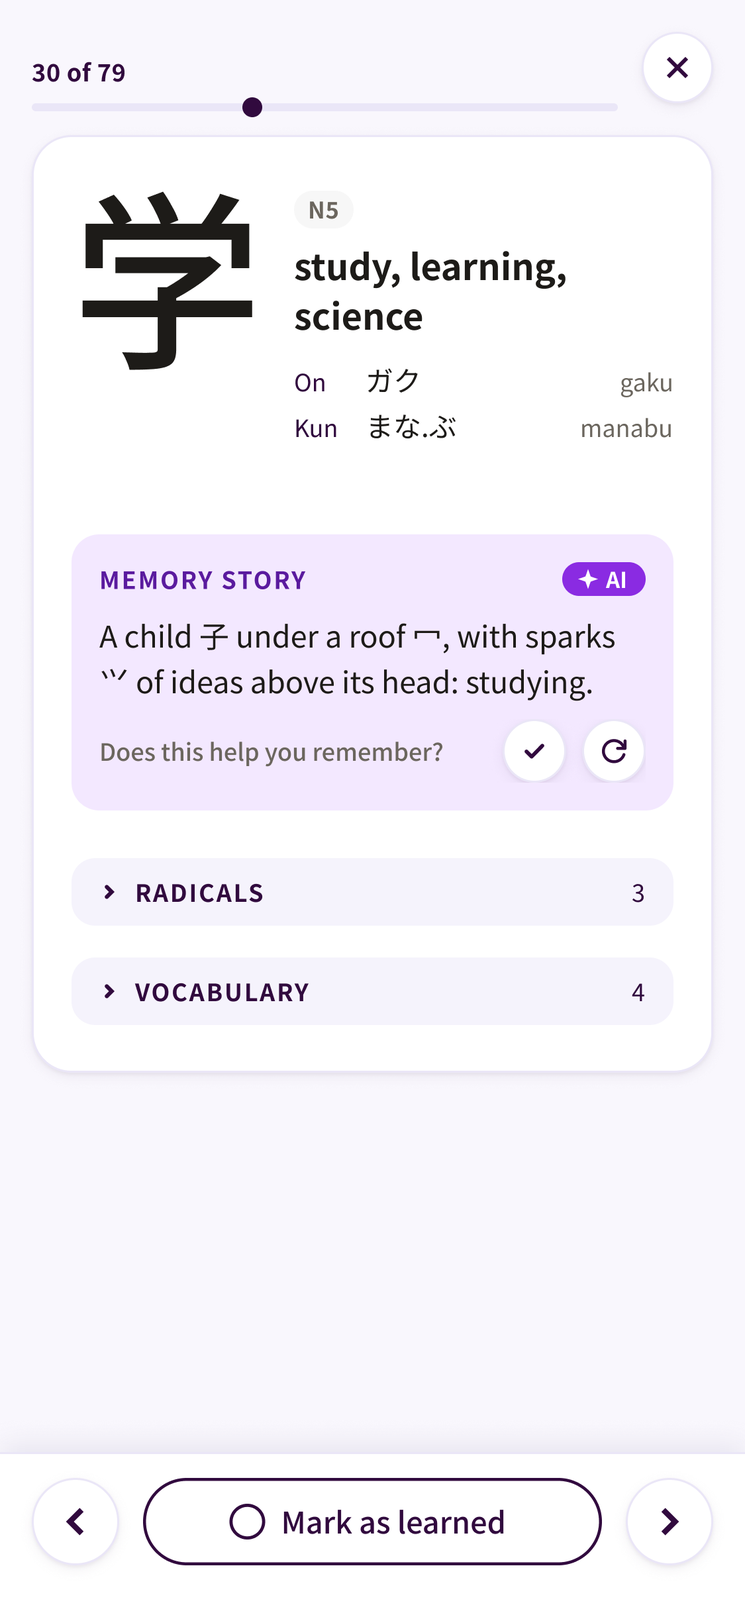
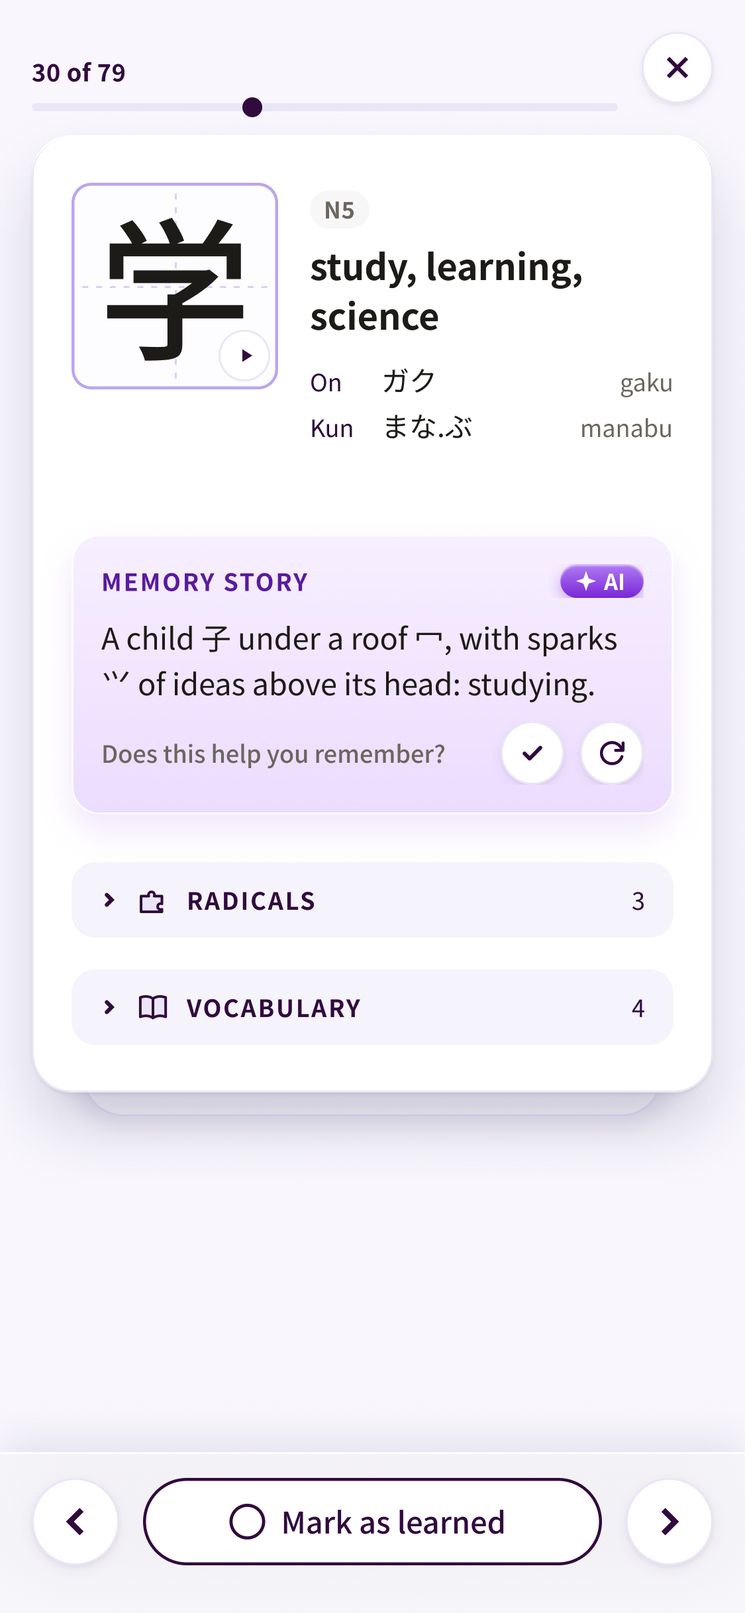
Premium updates animations

diff --git a/card-animation/index.html b/card-animation/index.html
@@ -4,12 +4,12 @@
 <meta charset="utf-8">
 <meta name="viewport" content="width=device-width, initial-scale=1">
 <title>Kanji card animation</title>
-<!-- A 15-second loop of the kanji card, in the app's own design tokens:
-     memory story → vocabulary → word sheet → phrase sheet (grammar tints) → Learned pill in the bottom bar. -->
+<!-- A 19-second loop of the kanji card, in the app's own design tokens:
+     stroke order → memory story → vocabulary → word sheet → phrase sheet (grammar tints) → Learned pill in the bottom bar. -->
 <style>
 :root { --bg:#f9f7fd; --card:#fff; --ink:#1d1b18; --muted:#6b665e; --line:#eae6f7; --brand:#310a3e; --brand-soft:#eae6f7;
         --tag:#eee9f0; --tag-ink:#6b665e; --light-gray:#f7f7f7; --learn-on:#9bd8a8; --learn-ink:#1d5631; --read-tint:#f5f3fc;
-        --hover-line:#bba6ee; --hover-strong:#8f72dc; --verb-tint:#ddf3e7; --particle-tint:#fde8cc; --pick:#310a3e;
+        --hover-line:#bba6ee; --hover-strong:#8f72dc; --verb-tint:#c3ebd2; --particle-tint:#fcd9a8; --pick:#310a3e;
         --shadow:0 4px 24px rgba(26,20,77,.12); --soft-shadow:0 1px 2px rgba(49,10,62,.06), 0 2px 8px rgba(49,10,62,.06); }
 * { box-sizing:border-box; }
 html, body { height:100%; margin:0; }
@@ -143,6 +143,58 @@ body { display:flex; align-items:center; justify-content:center; overflow:hidden
 
 .fade { position:absolute; inset:0; border-radius:48px; background:var(--bg); opacity:0; transition:opacity .35s; pointer-events:none; z-index:6; }
 .fade.on { opacity:1; }
+
+/* ===== Manabi premium layer (Nov 2026): practice square, lifted card, gradients, glass footer, motion ===== */
+:root { --btn-grad:linear-gradient(180deg,#552469,#2a0836); --btn-glow:0 6px 14px -4px rgba(49,10,62,.3), inset 0 1px 0 rgba(255,255,255,.25);
+        --ai-box:linear-gradient(180deg,#f7efff,#ecdcff); --ai-pill:linear-gradient(180deg,#b07cf5,#7a26d6); --guide:#d9cff5;
+        --stack-1:#f3eefc; --stack-2:#e6def7; --stack-line:#ddd3f3; }
+.card { box-shadow:0 1px 2px rgba(49,10,62,.05), 0 12px 32px -8px rgba(49,10,62,.18); }
+.card::before, .card::after { content:""; position:absolute; z-index:-1; bottom:-11px; height:28px; left:13px; right:13px;
+  border-radius:0 0 20px 20px; background:var(--stack-1); border:1px solid var(--stack-line); border-top:0; box-shadow:0 6px 14px rgba(26,20,77,.07); }
+.card::after { z-index:-2; bottom:-22px; left:26px; right:26px; background:var(--stack-2); }
+.screen { isolation:isolate; }
+.kanji { position:relative; flex:none; width:104px; height:104px; display:flex; align-items:center; justify-content:center; font-size:74px; border-radius:16px;
+  box-shadow:inset 0 0 0 2px var(--hover-line);
+  background:repeating-linear-gradient(to bottom, var(--guide) 0 4px, transparent 4px 9px) center / 1.2px 100% no-repeat,
+             repeating-linear-gradient(to right, var(--guide) 0 4px, transparent 4px 9px) center / 100% 1.2px no-repeat, var(--card); }
+.kplay { position:absolute; right:4px; bottom:4px; width:26px; height:26px; border-radius:50%; background:var(--card); color:var(--brand);
+  display:flex; align-items:center; justify-content:center; box-shadow:inset 0 0 0 1px var(--line), var(--soft-shadow); transition:transform .15s; }
+.kplay.tap { transform:scale(.85); background:var(--brand-soft); }
+.story { background:var(--ai-box); box-shadow:inset 0 0 0 1px #e6d4fb, 0 6px 16px -8px rgba(122,38,214,.35); }
+.ai-tag { background:var(--ai-pill); box-shadow:0 3px 8px -2px rgba(122,38,214,.55), inset 0 1px 0 rgba(255,255,255,.3); }
+.story.kept #story-keep { background:var(--ai-pill); }
+.sec-h, .ph-h { background:linear-gradient(180deg,#faf8fe,#f1ecfb); }
+.ph { box-shadow:inset 0 0 0 1.5px transparent; transition:box-shadow .2s; } .ph.tap { background:none; box-shadow:inset 0 0 0 1.5px var(--hover-line); }
+.nav { background:rgba(255,255,255,.36); -webkit-backdrop-filter:blur(14px) saturate(1.8); backdrop-filter:blur(14px) saturate(1.8);
+       border-top:0; box-shadow:0 -10px 30px rgba(26,20,77,.14), inset 0 1px 0 rgba(255,255,255,.95); }
+.screen { padding-bottom:120px; }
+.learn.on { background:var(--btn-grad); box-shadow:var(--btn-glow); animation:pill-bounce .45s cubic-bezier(.3,1.5,.5,1), ink-drop .8s ease-out; }
+.learn .tick { stroke-dasharray:11; stroke-dashoffset:0; }
+.learn.on .tick { animation:tick-draw .38s .16s ease-out both; }
+.learn.on .bg { animation:bg-pop .4s cubic-bezier(.3,1.6,.5,1) both; transform-box:fill-box; transform-origin:center; }
+.learn.on svg { animation:icon-pop .45s cubic-bezier(.3,1.6,.5,1); }
+@keyframes tick-draw { from { stroke-dashoffset:11; } }
+@keyframes bg-pop { from { transform:scale(0); } }
+@keyframes icon-pop { 45% { transform:scale(1.45); } }
+@keyframes pill-bounce { 0% { transform:scale(.94); } 55% { transform:scale(1.05); } 100% { transform:scale(1); } }
+@keyframes ink-drop { 0% { box-shadow:var(--btn-glow), 0 0 0 0 rgba(155,216,168,.75); } 100% { box-shadow:var(--btn-glow), 0 0 0 26px rgba(155,216,168,0); } }
+.sheet { transition:transform .42s cubic-bezier(.2,1.18,.35,1); box-shadow:0 -12px 40px rgba(26,20,77,.18); }
+.play { background:var(--card); }
+/* stroke-order slide-up */
+.st-head { display:flex; flex-direction:column; align-items:center; gap:2px; margin:22px 0 12px; }
+.st-head b { font-size:12px; text-transform:uppercase; letter-spacing:.08em; color:var(--brand); }
+.st-head span { font-size:14px; color:var(--muted); }
+.st-square { width:220px; height:220px; margin:0 auto; border-radius:16px; box-shadow:inset 0 0 0 2px var(--hover-line);
+  background:repeating-linear-gradient(to bottom, var(--guide) 0 4px, transparent 4px 9px) center / 1.2px 100% no-repeat,
+             repeating-linear-gradient(to right, var(--guide) 0 4px, transparent 4px 9px) center / 100% 1.2px no-repeat, var(--card); }
+.st-square svg { width:100%; height:100%; display:block; }
+.st-square path { fill:none; stroke-linecap:round; stroke-linejoin:round; stroke-width:4.2; }
+.st-square .ghost path { stroke:var(--brand); opacity:.1; } .st-square .drawn path { stroke:var(--ink); }
+.st-square .tip { fill:#e4572e; filter:drop-shadow(0 0 3px rgba(228,87,46,.6)); }
+.st-count { display:flex; align-items:center; justify-content:center; gap:10px; margin:14px 0 4px; font-size:13px; color:var(--muted); }
+.dots { display:inline-flex; align-items:center; gap:5px; }
+.dots i { width:7px; height:7px; border-radius:50%; background:var(--line); }
+.dots i.done { background:var(--brand); } .dots i.now { width:10px; height:10px; background:var(--brand); }
 @media (prefers-reduced-motion: reduce) { * { animation:none !important; transition:none !important; } }
 </style>
 </head>
@@ -156,7 +208,7 @@ body { display:flex; align-items:center; justify-content:center; overflow:hidden
   </div>
   <article class="card">
     <div class="head">
-      <div class="kanji" lang="ja">学</div>
+      <div class="kanji" lang="ja">学<span class="kplay" id="kplay"><svg width="10" height="10" viewBox="0 0 10 10"><path d="M3 1.8v6.4l5-3.2z" fill="currentColor"/></svg></span></div>
       <div class="info">
         <span class="lv">N5</span>
         <div class="meaning">study, learning, science</div>
@@ -202,6 +254,12 @@ body { display:flex; align-items:center; justify-content:center; overflow:hidden
   <p class="s-mean">student</p>
   <div class="play" id="play2"><svg width="20" height="20" viewBox="0 0 20 20"><circle cx="10" cy="10" r="8.6" fill="none" stroke="#310A3E" stroke-width="1.6"/><path d="M8.2 6.6v6.8l5.2-3.4z" fill="#310A3E"/></svg></div>
 </div>
+<div class="sheet" id="sheet-st"><span class="handle"></span>
+  <span class="s-btn s-close"><svg width="12" height="12" viewBox="0 0 12 12"><path d="M2 2l8 8M10 2l-8 8" stroke="#310A3E" stroke-width="2"/></svg></span>
+  <p class="st-head"><b>Stroke order</b><span lang="ja">学 · 8 strokes</span></p>
+  <div class="st-square"><svg id="st-svg" viewBox="0 0 109 109"><g class="ghost"></g><g class="drawn"></g><circle class="tip" r="3.2" cx="-10" cy="-10"/></svg></div>
+  <p class="st-count"><span class="dots" id="st-dots"></span><span id="st-label">Stroke 1 of 8</span></p>
+</div>
 <div class="finger" id="finger"></div>
 <div class="fade" id="fade"></div>
 </div></div>
@@ -220,48 +278,72 @@ body { display:flex; align-items:center; justify-content:center; overflow:hidden
   const press = () => { finger.classList.add("press"); setTimeout(() => finger.classList.remove("press"), 160); };
   const sound = id => { $(id).classList.remove("sound"); void $(id).offsetWidth; $(id).classList.add("sound"); };
 
+
+  // Stroke order (KanjiVG, CC BY-SA 3.0): each stroke draws in turn, a vermilion tip leading it
+  const SD = ["M29.5,17.25c3.5,3,6.5,7.25,7.75,9.75", "M49,12c1.25,2,4.75,8.25,5.25,11.5", "M75,11c0.25,1.75-0.12,2.75-0.75,4.25c-1.29,3.1-4.25,7.38-6.5,9.75", "M21.25,33.75c-0.12,4.75-2,12.5-3.75,16.25", "M23.5,36.5c17-1.62,42.38-5.5,60-5.75c9.5-0.13,4.12,5.12,0,9", "M37.25,46.5c1,0.25,3.75,0.25,5.5-0.25s18.25-4,20-4s2.75,0.75,1,2.25S54.5,53.5,53,54.75", "M50.75,55.75c4,8.75,7.18,24.67,1.75,38c-2.75,6.75-7.75,1.25-9.75-2", "M15.75,67.75c1.75,1,4.64,1.36,7.5,1c15.88-2,44.43-6.25,61.37-5.5c2.5,0.11,4.72,0.25,6.39,1"];
+  const NS = "http://www.w3.org/2000/svg", ssvg = $("st-svg"), mk = d => { const p = document.createElementNS(NS, "path"); p.setAttribute("d", d); return p; };
+  SD.forEach(d => ssvg.querySelector(".ghost").appendChild(mk(d)));
+  const SP = SD.map(d => ssvg.querySelector(".drawn").appendChild(mk(d))), SL = SP.map(p => p.getTotalLength()), tip = ssvg.querySelector(".tip");
+  $("st-dots").innerHTML = SD.map(() => "<i></i>").join("");
+  let sraf = 0;
+  const sset = (k, f) => { SP[k].style.strokeDasharray = SL[k]; SP[k].style.strokeDashoffset = SL[k] * (1 - f);
+                           const pt = SP[k].getPointAtLength(SL[k] * f); tip.setAttribute("cx", pt.x); tip.setAttribute("cy", pt.y); };
+  const sui = i => { $("st-label").textContent = `Stroke ${Math.min(i + 1, SD.length)} of ${SD.length}`;
+                     [...$("st-dots").children].forEach((el, k) => el.className = k < i ? "done" : k === i ? "now" : ""); };
+  const sreset = () => { cancelAnimationFrame(sraf); SP.forEach((p, k) => sset(k, 0)); tip.setAttribute("cx", -10); sui(0); };
+  const sdraw = () => { let i = 0, t0 = performance.now(); sui(0);
+    const dur = k => Math.max(150, SL[k] * 3.5);
+    const fr = now => { const f = Math.min(1, (now - t0) / dur(i)); sset(i, Math.max(0, f));
+      if (f < 1) { sraf = requestAnimationFrame(fr); return; }
+      if (i < SD.length - 1) { i++; sui(i); t0 = now + 80; sraf = requestAnimationFrame(fr); } else { sui(SD.length); tip.setAttribute("cx", -10); } };
+    sraf = requestAnimationFrame(fr); };
   const STORIES = ["A child 子 under a roof 冖, with sparks ⺍ of ideas above its head: <b>studying</b>.",
                    "Three little lights ⺍ over a roof 冖, and a child 子 underneath, reading late: <b>studying</b>."];
   const story = (i, prompt) => { const t = $("story-text"); t.classList.add("swap");
                                  setTimeout(() => { t.innerHTML = STORIES[i]; t.classList.remove("swap"); }, 180); $("story-prompt").textContent = prompt; };
   const tap = (id, cls = "tap") => { press(); $(id).classList.add(cls); };
   const reset = () => {
-    ["scrim", "sheet-ph", "sheet-w", "finger", "learn"].forEach(id => on(id, false)); $("learn-label").textContent = "Mark as learned";
+    ["scrim", "sheet-ph", "sheet-w", "sheet-st", "finger", "learn"].forEach(id => on(id, false)); sreset(); $("kplay").classList.remove("tap"); $("learn-label").textContent = "Mark as learned";
     $("story").classList.remove("kept"); $("story-text").innerHTML = STORIES[0]; $("story-prompt").textContent = "Does this help you remember?";
     ["ph2", "w-gakusei", "v-gakusei", "vocab-h"].forEach(id => $(id).classList.remove("tap"));
     $("vocab").classList.remove("open"); $("vocab-h").classList.remove("open-chev"); $("ph-word").classList.remove("colours");
     finger.style.left = "300px"; finger.style.top = "700px";
   };
-  // [ms, step]: one 10-second loop
+  // [ms, step]: one 19-second loop
   const T = [
     [200,  () => on("fade", false)],
-    [600,  () => { on("finger"); move("story-next"); }],
-    [1100,  () => { tap("story-next"); story(1, "Story 2 of 3 · keep this one?"); }],   // AI memory story: another one
-    [1350, () => $("story-next").classList.remove("tap")],
-    [1850, () => move("story-keep")],
-    [2300, () => { tap("story-keep"); $("story").classList.add("kept"); $("story-prompt").textContent = "You kept this story"; }],
-    [2550, () => $("story-keep").classList.remove("tap")],
-    [3000,  () => { on("finger"); move("vocab-h"); }],
-    [3550,  () => { tap("vocab-h"); $("vocab").classList.add("open"); $("vocab-h").classList.add("open-chev"); }],
-    [3850, () => $("vocab-h").classList.remove("tap")],
-    [4650, () => move("v-gakusei")],
-    [5150, () => { tap("v-gakusei"); $("w-back").hidden = true; }],  // a word
-    [5400, () => { on("scrim"); on("sheet-w"); }],
-    [5850, () => sound("play2")],
-    [6900, () => { on("sheet-w", false); on("scrim", false); $("v-gakusei").classList.remove("tap"); }],
-    [7300, () => move("ph2")],
-    [7800, () => tap("ph2")],                                         // a phrase
-    [8050, () => { on("scrim"); on("sheet-ph"); }],
-    [8550, () => $("ph-word").classList.add("colours")],             // particles and verbs pop
-    [9500, () => sound("play1")],
-    [10850, () => { on("sheet-ph", false); on("scrim", false); }],
-    [11200, () => { $("ph2").classList.remove("tap"); move("learn"); }],
-    [11800, () => { press(); on("learn"); $("learn-label").textContent = "Learned"; }],   // the pill itself confirms it
-    [12300, () => on("finger", false)],
-    [14500, () => on("fade")],
+    [600,  () => { on("finger"); move("kplay"); }],
+    [1100, () => { tap("kplay"); }],                                    // ▶ stroke order
+    [1300, () => { $("kplay").classList.remove("tap"); on("scrim"); on("sheet-st"); }],
+    [1700, () => sdraw()],
+    [4350, () => { on("sheet-st", false); on("scrim", false); }],
+    [4600,  () => move("story-next")],
+    [5100,  () => { tap("story-next"); story(1, "Story 2 of 3 · keep this one?"); }],   // AI memory story: another one
+    [5350, () => $("story-next").classList.remove("tap")],
+    [5850, () => move("story-keep")],
+    [6300, () => { tap("story-keep"); $("story").classList.add("kept"); $("story-prompt").textContent = "You kept this story"; }],
+    [6550, () => $("story-keep").classList.remove("tap")],
+    [7000,  () => { on("finger"); move("vocab-h"); }],
+    [7550,  () => { tap("vocab-h"); $("vocab").classList.add("open"); $("vocab-h").classList.add("open-chev"); }],
+    [7850, () => $("vocab-h").classList.remove("tap")],
+    [8650, () => move("v-gakusei")],
+    [9150, () => { tap("v-gakusei"); $("w-back").hidden = true; }],  // a word
+    [9400, () => { on("scrim"); on("sheet-w"); }],
+    [9850, () => sound("play2")],
+    [10900, () => { on("sheet-w", false); on("scrim", false); $("v-gakusei").classList.remove("tap"); }],
+    [11300, () => move("ph2")],
+    [11800, () => tap("ph2")],                                         // a phrase
+    [12050, () => { on("scrim"); on("sheet-ph"); }],
+    [12550, () => $("ph-word").classList.add("colours")],             // particles and verbs pop
+    [13500, () => sound("play1")],
+    [14850, () => { on("sheet-ph", false); on("scrim", false); }],
+    [15200, () => { $("ph2").classList.remove("tap"); move("learn"); }],
+    [15800, () => { press(); on("learn"); $("learn-label").textContent = "Learned"; }],   // the pill itself confirms it
+    [16300, () => on("finger", false)],
+    [18500, () => on("fade")],
   ];
   let timers = [];
-  const run = () => { timers.forEach(clearTimeout); reset(); timers = T.map(([t, f]) => setTimeout(f, t)); timers.push(setTimeout(run, 15000)); };
+  const run = () => { timers.forEach(clearTimeout); reset(); timers = T.map(([t, f]) => setTimeout(f, t)); timers.push(setTimeout(run, 19000)); };
   if (matchMedia("(prefers-reduced-motion: reduce)").matches) { on("fade", false); $("vocab").classList.add("open"); $("vocab-h").classList.add("open-chev"); on("learn"); $("learn-label").textContent = "Learned"; }
   else run();
 })();

diff --git a/quiz-animation-2/index.html b/quiz-animation-2/index.html
@@ -152,6 +152,46 @@ body { display:flex; align-items:center; justify-content:center; overflow:hidden
 .finger.on { opacity:1; } .finger.press { transform:scale(.8); background:rgba(49,10,62,.32); }
 .fade { position:absolute; inset:0; border-radius:48px; background:var(--bg); opacity:0; transition:opacity .35s; pointer-events:none; z-index:6; }
 .fade.on { opacity:1; }
+
+/* ===== Manabi premium layer (Nov 2026): gradients, glass bar, soft-3D type tiles, Learned bar, score ring ===== */
+:root { --btn-grad:linear-gradient(180deg,#552469,#2a0836); --btn-glow:0 6px 14px -4px rgba(49,10,62,.3), inset 0 1px 0 rgba(255,255,255,.25);
+        --info-grad:linear-gradient(180deg,#ffffff,#efe8fb); --info-line:#e3dbf6;
+        --ai-box:linear-gradient(180deg,#f7efff,#ecdcff); --ai-pill:linear-gradient(180deg,#b07cf5,#7a26d6);
+        --tile-on:linear-gradient(180deg,#b394f5,#5b2bb5); --tile-on-glow:0 6px 12px -2px rgba(91,43,181,.45);
+        --tile-off:linear-gradient(180deg,#e3daf7,#bfb0e6); --tile-off-glow:0 4px 10px -3px rgba(91,43,181,.25);
+        --mint-grad:linear-gradient(90deg,#b8e8c2,#5fba7a); }
+.act-primary, .q-btn:not(.secondary) { background:var(--btn-grad); box-shadow:var(--btn-glow); }
+.deck-bar { background:rgba(255,255,255,.36); -webkit-backdrop-filter:blur(14px) saturate(1.8); backdrop-filter:blur(14px) saturate(1.8);
+            border-top:0; box-shadow:0 -10px 30px rgba(26,20,77,.14), inset 0 1px 0 rgba(255,255,255,.95); }
+.tile.read { background:var(--card); }
+.tile.learned { border-color:var(--learn-on); box-shadow:inset 0 0 0 1px var(--learn-on), 0 4px 10px -4px rgba(95,186,122,.35); }
+.q-card { box-shadow:0 1px 2px rgba(49,10,62,.05), 0 12px 32px -8px rgba(49,10,62,.16); }
+/* Learned bar card */
+.lbar { padding:12px 14px; border-radius:16px; background:var(--card); border:1px solid var(--line); box-shadow:var(--soft-shadow); gap:8px; }
+.lbar .legend { align-items:baseline; font-size:14px; color:var(--ink); }
+.pl-num { font-size:13px; font-weight:500; color:var(--muted); } .pl-num b { margin-right:2px; font-size:20px; color:var(--brand); }
+.pct-pill { display:inline-block; margin-left:6px; padding:1px 8px; border-radius:999px; font-size:12px; font-weight:700; vertical-align:2px;
+            background:#e8f6ec; color:#1d5631; box-shadow:inset 0 0 0 1.5px var(--learn-on); }
+.lbar .track { position:relative; height:10px; overflow:visible; background:#efeaf9; }
+.lbar .track::after { content:""; position:absolute; inset:0; background:var(--notches); }
+.lbar .track i { background:var(--mint-grad); box-shadow:0 2px 6px rgba(95,186,122,.45); }
+.lhint { display:flex; align-items:center; gap:6px; font-size:12px; color:var(--muted); }
+.lhint::before { content:""; width:6px; height:6px; border-radius:50%; background:var(--learn-on); }
+/* quiz types: soft-3D icon tile, violet when picked */
+.to-icon { flex:none; width:36px; height:36px; display:inline-flex; align-items:center; justify-content:center; border-radius:11px; color:#fff;
+           background:var(--tile-off); box-shadow:var(--tile-off-glow), inset 0 2px 2px rgba(255,255,255,.6); opacity:.9; }
+.to-icon svg { width:20px; height:20px; }
+.type.on .to-icon { background:var(--tile-on); box-shadow:var(--tile-on-glow), inset 0 2px 2px rgba(255,255,255,.55), inset 0 -3px 4px rgba(0,0,0,.12); opacity:1; }
+.q-banner, .r-learn { background:var(--info-grad); box-shadow:inset 0 0 0 1px var(--info-line), 0 4px 12px -4px rgba(91,43,181,.08); }
+.why { background:var(--ai-box); box-shadow:inset 0 0 0 1px #e6d4fb, 0 6px 16px -8px rgba(122,38,214,.35); }
+.ai-tag { background:var(--ai-pill); box-shadow:0 3px 8px -2px rgba(122,38,214,.55), inset 0 1px 0 rgba(255,255,255,.3); }
+/* score ring */
+.r-ring { width:110px; height:110px; }
+.r-ring .rt { stroke:var(--line); }
+.r-ring .arc { stroke-dashoffset:314.16; transition:stroke-dashoffset .9s .15s ease-out; filter:drop-shadow(0 3px 5px rgba(95,186,122,.4)); }
+.on .r-ring .arc { stroke-dashoffset:104.7; }
+.r-ring .rc { stroke-dasharray:44; stroke-dashoffset:44; transition:stroke-dashoffset .35s .9s ease-out; }
+.on .r-ring .rc { stroke-dashoffset:0; }
 @media (prefers-reduced-motion: reduce) { * { animation:none !important; transition:none !important; } }
 </style>
 </head>
@@ -165,7 +205,7 @@ body { display:flex; align-items:center; justify-content:center; overflow:hidden
     <div class="switch"><span><svg width="14" height="14" viewBox="0 0 14 14"><path d="M2 3.5h10M2 7h10M2 10.5h10" stroke="#310A3E" stroke-width="1.6" stroke-linecap="round"/></svg></span>
       <span class="on"><svg width="14" height="14" viewBox="0 0 14 14"><g fill="#fff"><rect x="1.5" y="1.5" width="4.5" height="4.5" rx="1"/><rect x="8" y="1.5" width="4.5" height="4.5" rx="1"/><rect x="1.5" y="8" width="4.5" height="4.5" rx="1"/><rect x="8" y="8" width="4.5" height="4.5" rx="1"/></g></svg></span></div></div>
   <div class="bars">
-    <div class="bar"><div class="legend"><span>Learned&nbsp;&nbsp;10 of 79</span><span>13%</span></div><div class="track learned"><i style="width:13%"></i></div></div>
+    <div class="bar lbar"><div class="legend"><span>Learned</span><span class="pl-num"><b>10</b> of 79<span class="pct-pill">13%</span></span></div><div class="track learned" style="--notches:linear-gradient(to right, transparent calc(12.658% - 1px), var(--card) calc(12.658% - 1px) calc(12.658% + 1px), transparent calc(12.658% + 1px), transparent calc(25.316% - 1px), var(--card) calc(25.316% - 1px) calc(25.316% + 1px), transparent calc(25.316% + 1px), transparent calc(37.975% - 1px), var(--card) calc(37.975% - 1px) calc(37.975% + 1px), transparent calc(37.975% + 1px), transparent calc(50.633% - 1px), var(--card) calc(50.633% - 1px) calc(50.633% + 1px), transparent calc(50.633% + 1px), transparent calc(63.291% - 1px), var(--card) calc(63.291% - 1px) calc(63.291% + 1px), transparent calc(63.291% + 1px), transparent calc(75.949% - 1px), var(--card) calc(75.949% - 1px) calc(75.949% + 1px), transparent calc(75.949% + 1px), transparent calc(88.608% - 1px), var(--card) calc(88.608% - 1px) calc(88.608% + 1px), transparent calc(88.608% + 1px))"><i style="width:13%"></i></div><span class="lhint">10 more to your next milestone (20)</span></div>
   </div>
   <div class="grid" id="deck-grid"></div>
   <div class="deck-bar"><span class="act act-primary">Continue · 本</span><span class="act" id="quiz-btn">Quiz</span></div>
@@ -181,9 +221,9 @@ body { display:flex; align-items:center; justify-content:center; overflow:hidden
       <div class="choose tap-bg" id="choose"><span class="cr"><b id="cr-title">Pick</b><span id="cr-desc">Select specific kanji from the deck</span></span><span class="edit">Edit</span>
         <svg width="10" height="10" viewBox="0 0 10 10"><path d="M3.5 1.5L7 5 3.5 8.5" fill="none" stroke="#310A3E" stroke-width="1.6" stroke-linecap="round" stroke-linejoin="round"/></svg></div></div>
     <div><p class="label">Quiz type</p>
-      <div class="type on" id="t-meaning"><span class="radio"></span><span><b>Meaning</b><span>See a kanji, pick its meaning</span></span></div>
-      <div class="type" id="t-reading"><span class="radio"></span><span><b>Reading</b><span>See a word, pick its reading</span></span></div>
-      <div class="type"><span class="radio"></span><span><b>Matching</b><span>Match words with readings, then meanings</span></span></div></div>
+      <div class="type on" id="t-meaning"><span class="radio"></span><span class="to-icon"><svg viewBox="0 0 24 24"><path d="M12 3.5a6 6 0 0 0-3.5 10.9V17h7v-2.6A6 6 0 0 0 12 3.5zM9.5 20.5h5" stroke="currentColor" stroke-width="1.9" stroke-linecap="round" stroke-linejoin="round" fill="none"/></svg></span><span><b>Meaning</b><span>See a kanji, pick its meaning</span></span></div>
+      <div class="type" id="t-reading"><span class="radio"></span><span class="to-icon"><svg viewBox="0 0 24 24"><path d="M5 9.5h3l4-3.5v12l-4-3.5H5zM15.5 9a4 4 0 0 1 0 6M18 6.5a7.5 7.5 0 0 1 0 11" stroke="currentColor" stroke-width="1.9" stroke-linecap="round" stroke-linejoin="round" fill="none"/></svg></span><span><b>Reading</b><span>See a word, pick its reading</span></span></div>
+      <div class="type"><span class="radio"></span><span class="to-icon"><svg viewBox="0 0 24 24"><path d="M3.5 7a2 2 0 0 1 2-2h3a2 2 0 0 1 2 2v3a2 2 0 0 1-2 2h-3a2 2 0 0 1-2-2zM13.5 14a2 2 0 0 1 2-2h3a2 2 0 0 1 2 2v3a2 2 0 0 1-2 2h-3a2 2 0 0 1-2-2zM10.5 8.5h2a2.5 2.5 0 0 1 2.5 2.5v1" stroke="currentColor" stroke-width="1.9" stroke-linecap="round" stroke-linejoin="round" fill="none"/></svg></span><span><b>Matching</b><span>Match words with readings, then meanings</span></span></div></div>
     <div><p class="label">Length</p>
       <div class="chips"><span class="chip" id="len-sel" style="display:none">Selected kanji · 3</span><span class="chip on" id="len-10">10</span><span class="chip">20</span></div></div>
   </div>
@@ -216,7 +256,7 @@ body { display:flex; align-items:center; justify-content:center; overflow:hidden
 <section class="view" id="v-res">
   <div class="head"><h1>Quiz results</h1><span class="btn-round"><svg width="12" height="12" viewBox="0 0 12 12"><path d="M2 2l8 8M10 2l-8 8" stroke="#310A3E" stroke-width="2"/></svg></span></div>
   <div class="q-card r-card">
-    <div class="r-score"><span class="r-num">2 / 3</span><span class="r-cap">right on the first try</span><span class="r-second">1 right on the second try</span></div>
+    <div class="r-score"><svg class="r-ring" viewBox="0 0 110 110"><defs><linearGradient id="r-mint" x1="0" y1="0" x2="0" y2="1"><stop offset="0" stop-color="#b8e8c2"/><stop offset="1" stop-color="#5fba7a"/></linearGradient></defs><circle class="rt" cx="55" cy="55" r="50" fill="none" stroke-width="10"/><circle class="arc" cx="55" cy="55" r="50" fill="none" stroke="url(#r-mint)" stroke-width="10" stroke-linecap="round" transform="rotate(-90 55 55)" stroke-dasharray="314.16"/><path class="rc" d="M42 56l9 9 18-20" fill="none" stroke="#5fba7a" stroke-width="5" stroke-linecap="round" stroke-linejoin="round"/></svg><span class="r-num">2 / 3</span><span class="r-cap">right on the first try</span><span class="r-second">1 right on the second try</span></div>
     <div><p class="label">Missed the first time</p>
       <div class="row"><span class="rk rk-word" lang="ja">出口</span><span class="rm"><span lang="ja">でぐち</span> · exit</span><span class="note static">Right on 2nd try</span></div></div>
     <div class="r-learn"><h2>Mark as learned?</h2><p>You got 2 kanji right on the first try that aren’t marked as learned yet.</p>
@@ -241,7 +281,7 @@ body { display:flex; align-items:center; justify-content:center; overflow:hidden
                  ["月","month"],["後","behind"],["前","in front"],["生","life"]];
   const READ = 9, LEARNED = new Set(["日","一","国","人","年","大","十","二","本"]);
   const CHK = '<svg class="chk" viewBox="0 0 28 28"><circle cx="14" cy="14" r="14" fill="FILL"/><path d="M8.5 14.5l3.5 3.5 7.5-8" fill="none" stroke="#fff" stroke-width="2.8" stroke-linecap="round" stroke-linejoin="round"/></svg>';
-  $("deck-grid").innerHTML = KANJI.map(([k, m], i) => `<div class="tile${i < READ ? " read" : ""}"><b lang="ja">${k}</b><small>${m}</small>${LEARNED.has(k) ? CHK.replace("FILL", "#9bd8a8") : ""}</div>`).join("");
+  $("deck-grid").innerHTML = KANJI.map(([k, m], i) => `<div class="tile${i < READ ? " read" : ""}${LEARNED.has(k) ? " learned" : ""}"><b lang="ja">${k}</b><small>${m}</small>${LEARNED.has(k) ? CHK.replace("FILL", "#9bd8a8") : ""}</div>`).join("");
   $("pick-grid").innerHTML = KANJI.map(([k, m]) => `<div class="pick" id="p-${k}"><b lang="ja">${k}</b><small>${m}</small>${CHK.replace("FILL", "#310a3e")}</div>`).join("");
 
   const OK = '<svg class="ok" width="22" height="22" viewBox="0 0 24 24"><circle cx="12" cy="12" r="12" fill="#3f9a5b"/><path d="M7 12.5l3.2 3.2L17 9" fill="none" stroke="#fff" stroke-width="2.2" stroke-linecap="round" stroke-linejoin="round"/></svg>';

diff --git a/quiz-animation/index.html b/quiz-animation/index.html
@@ -142,6 +142,46 @@ body { display:flex; align-items:center; justify-content:center; overflow:hidden
 .finger.on { opacity:1; } .finger.press { transform:scale(.8); background:rgba(49,10,62,.32); }
 .fade { position:absolute; inset:0; border-radius:48px; background:var(--bg); opacity:0; transition:opacity .35s; pointer-events:none; z-index:6; }
 .fade.on { opacity:1; }
+
+/* ===== Manabi premium layer (Nov 2026): gradients, glass bar, soft-3D type tiles, Learned bar, score ring ===== */
+:root { --btn-grad:linear-gradient(180deg,#552469,#2a0836); --btn-glow:0 6px 14px -4px rgba(49,10,62,.3), inset 0 1px 0 rgba(255,255,255,.25);
+        --info-grad:linear-gradient(180deg,#ffffff,#efe8fb); --info-line:#e3dbf6;
+        --ai-box:linear-gradient(180deg,#f7efff,#ecdcff); --ai-pill:linear-gradient(180deg,#b07cf5,#7a26d6);
+        --tile-on:linear-gradient(180deg,#b394f5,#5b2bb5); --tile-on-glow:0 6px 12px -2px rgba(91,43,181,.45);
+        --tile-off:linear-gradient(180deg,#e3daf7,#bfb0e6); --tile-off-glow:0 4px 10px -3px rgba(91,43,181,.25);
+        --mint-grad:linear-gradient(90deg,#b8e8c2,#5fba7a); }
+.act-primary, .q-btn:not(.secondary) { background:var(--btn-grad); box-shadow:var(--btn-glow); }
+.deck-bar { background:rgba(255,255,255,.36); -webkit-backdrop-filter:blur(14px) saturate(1.8); backdrop-filter:blur(14px) saturate(1.8);
+            border-top:0; box-shadow:0 -10px 30px rgba(26,20,77,.14), inset 0 1px 0 rgba(255,255,255,.95); }
+.tile.read { background:var(--card); }
+.tile.learned { border-color:var(--learn-on); box-shadow:inset 0 0 0 1px var(--learn-on), 0 4px 10px -4px rgba(95,186,122,.35); }
+.q-card { box-shadow:0 1px 2px rgba(49,10,62,.05), 0 12px 32px -8px rgba(49,10,62,.16); }
+/* Learned bar card */
+.lbar { padding:12px 14px; border-radius:16px; background:var(--card); border:1px solid var(--line); box-shadow:var(--soft-shadow); gap:8px; }
+.lbar .legend { align-items:baseline; font-size:14px; color:var(--ink); }
+.pl-num { font-size:13px; font-weight:500; color:var(--muted); } .pl-num b { margin-right:2px; font-size:20px; color:var(--brand); }
+.pct-pill { display:inline-block; margin-left:6px; padding:1px 8px; border-radius:999px; font-size:12px; font-weight:700; vertical-align:2px;
+            background:#e8f6ec; color:#1d5631; box-shadow:inset 0 0 0 1.5px var(--learn-on); }
+.lbar .track { position:relative; height:10px; overflow:visible; background:#efeaf9; }
+.lbar .track::after { content:""; position:absolute; inset:0; background:var(--notches); }
+.lbar .track i { background:var(--mint-grad); box-shadow:0 2px 6px rgba(95,186,122,.45); }
+.lhint { display:flex; align-items:center; gap:6px; font-size:12px; color:var(--muted); }
+.lhint::before { content:""; width:6px; height:6px; border-radius:50%; background:var(--learn-on); }
+/* quiz types: soft-3D icon tile, violet when picked */
+.to-icon { flex:none; width:36px; height:36px; display:inline-flex; align-items:center; justify-content:center; border-radius:11px; color:#fff;
+           background:var(--tile-off); box-shadow:var(--tile-off-glow), inset 0 2px 2px rgba(255,255,255,.6); opacity:.9; }
+.to-icon svg { width:20px; height:20px; }
+.type.on .to-icon { background:var(--tile-on); box-shadow:var(--tile-on-glow), inset 0 2px 2px rgba(255,255,255,.55), inset 0 -3px 4px rgba(0,0,0,.12); opacity:1; }
+.q-banner, .r-learn { background:var(--info-grad); box-shadow:inset 0 0 0 1px var(--info-line), 0 4px 12px -4px rgba(91,43,181,.08); }
+.why { background:var(--ai-box); box-shadow:inset 0 0 0 1px #e6d4fb, 0 6px 16px -8px rgba(122,38,214,.35); }
+.ai-tag { background:var(--ai-pill); box-shadow:0 3px 8px -2px rgba(122,38,214,.55), inset 0 1px 0 rgba(255,255,255,.3); }
+/* score ring */
+.r-ring { width:110px; height:110px; }
+.r-ring .rt { stroke:var(--line); }
+.r-ring .arc { stroke-dashoffset:314.16; transition:stroke-dashoffset .9s .15s ease-out; filter:drop-shadow(0 3px 5px rgba(95,186,122,.4)); }
+.on .r-ring .arc { stroke-dashoffset:104.7; }
+.r-ring .rc { stroke-dasharray:44; stroke-dashoffset:44; transition:stroke-dashoffset .35s .9s ease-out; }
+.on .r-ring .rc { stroke-dashoffset:0; }
 @media (prefers-reduced-motion: reduce) { * { animation:none !important; transition:none !important; } }
 </style>
 </head>
@@ -155,7 +195,7 @@ body { display:flex; align-items:center; justify-content:center; overflow:hidden
     <div class="switch"><span><svg width="14" height="14" viewBox="0 0 14 14"><path d="M2 3.5h10M2 7h10M2 10.5h10" stroke="#310A3E" stroke-width="1.6" stroke-linecap="round"/></svg></span>
       <span class="on"><svg width="14" height="14" viewBox="0 0 14 14"><g fill="#fff"><rect x="1.5" y="1.5" width="4.5" height="4.5" rx="1"/><rect x="8" y="1.5" width="4.5" height="4.5" rx="1"/><rect x="1.5" y="8" width="4.5" height="4.5" rx="1"/><rect x="8" y="8" width="4.5" height="4.5" rx="1"/></g></svg></span></div></div>
   <div class="bars">
-    <div class="bar"><div class="legend"><span>Learned&nbsp;&nbsp;10 of 79</span><span>13%</span></div><div class="track learned"><i style="width:13%"></i></div></div>
+    <div class="bar lbar"><div class="legend"><span>Learned</span><span class="pl-num"><b>10</b> of 79<span class="pct-pill">13%</span></span></div><div class="track learned" style="--notches:linear-gradient(to right, transparent calc(12.658% - 1px), var(--card) calc(12.658% - 1px) calc(12.658% + 1px), transparent calc(12.658% + 1px), transparent calc(25.316% - 1px), var(--card) calc(25.316% - 1px) calc(25.316% + 1px), transparent calc(25.316% + 1px), transparent calc(37.975% - 1px), var(--card) calc(37.975% - 1px) calc(37.975% + 1px), transparent calc(37.975% + 1px), transparent calc(50.633% - 1px), var(--card) calc(50.633% - 1px) calc(50.633% + 1px), transparent calc(50.633% + 1px), transparent calc(63.291% - 1px), var(--card) calc(63.291% - 1px) calc(63.291% + 1px), transparent calc(63.291% + 1px), transparent calc(75.949% - 1px), var(--card) calc(75.949% - 1px) calc(75.949% + 1px), transparent calc(75.949% + 1px), transparent calc(88.608% - 1px), var(--card) calc(88.608% - 1px) calc(88.608% + 1px), transparent calc(88.608% + 1px))"><i style="width:13%"></i></div><span class="lhint">10 more to your next milestone (20)</span></div>
   </div>
   <div class="grid" id="deck-grid"></div>
   <div class="deck-bar"><span class="act act-primary">Continue · 本</span><span class="act" id="quiz-btn">Quiz</span></div>
@@ -171,9 +211,9 @@ body { display:flex; align-items:center; justify-content:center; overflow:hidden
       <div class="choose tap-bg" id="choose"><span class="cr"><b id="cr-title">Pick</b><span id="cr-desc">Select specific kanji from the deck</span></span><span class="edit">Edit</span>
         <svg width="10" height="10" viewBox="0 0 10 10"><path d="M3.5 1.5L7 5 3.5 8.5" fill="none" stroke="#310A3E" stroke-width="1.6" stroke-linecap="round" stroke-linejoin="round"/></svg></div></div>
     <div><p class="label">Quiz type</p>
-      <div class="type on"><span class="radio"></span><span><b>Meaning</b><span>See a kanji, pick its meaning</span></span></div>
-      <div class="type"><span class="radio"></span><span><b>Reading</b><span>See a word, pick its reading</span></span></div>
-      <div class="type"><span class="radio"></span><span><b>Matching</b><span>Match words with readings, then meanings</span></span></div></div>
+      <div class="type on"><span class="radio"></span><span class="to-icon"><svg viewBox="0 0 24 24"><path d="M12 3.5a6 6 0 0 0-3.5 10.9V17h7v-2.6A6 6 0 0 0 12 3.5zM9.5 20.5h5" stroke="currentColor" stroke-width="1.9" stroke-linecap="round" stroke-linejoin="round" fill="none"/></svg></span><span><b>Meaning</b><span>See a kanji, pick its meaning</span></span></div>
+      <div class="type"><span class="radio"></span><span class="to-icon"><svg viewBox="0 0 24 24"><path d="M5 9.5h3l4-3.5v12l-4-3.5H5zM15.5 9a4 4 0 0 1 0 6M18 6.5a7.5 7.5 0 0 1 0 11" stroke="currentColor" stroke-width="1.9" stroke-linecap="round" stroke-linejoin="round" fill="none"/></svg></span><span><b>Reading</b><span>See a word, pick its reading</span></span></div>
+      <div class="type"><span class="radio"></span><span class="to-icon"><svg viewBox="0 0 24 24"><path d="M3.5 7a2 2 0 0 1 2-2h3a2 2 0 0 1 2 2v3a2 2 0 0 1-2 2h-3a2 2 0 0 1-2-2zM13.5 14a2 2 0 0 1 2-2h3a2 2 0 0 1 2 2v3a2 2 0 0 1-2 2h-3a2 2 0 0 1-2-2zM10.5 8.5h2a2.5 2.5 0 0 1 2.5 2.5v1" stroke="currentColor" stroke-width="1.9" stroke-linecap="round" stroke-linejoin="round" fill="none"/></svg></span><span><b>Matching</b><span>Match words with readings, then meanings</span></span></div></div>
     <div><p class="label">Length</p>
       <div class="chips"><span class="chip" id="len-sel" style="display:none">Selected kanji · 3</span><span class="chip on" id="len-10">10</span><span class="chip">20</span></div></div>
   </div>
@@ -206,7 +246,7 @@ body { display:flex; align-items:center; justify-content:center; overflow:hidden
 <section class="view" id="v-res">
   <div class="head"><h1>Quiz results</h1><span class="btn-round"><svg width="12" height="12" viewBox="0 0 12 12"><path d="M2 2l8 8M10 2l-8 8" stroke="#310A3E" stroke-width="2"/></svg></span></div>
   <div class="q-card r-card">
-    <div class="r-score"><span class="r-num">2 / 3</span><span class="r-cap">right on the first try</span><span class="r-second">1 right on the second try</span></div>
+    <div class="r-score"><svg class="r-ring" viewBox="0 0 110 110"><defs><linearGradient id="r-mint" x1="0" y1="0" x2="0" y2="1"><stop offset="0" stop-color="#b8e8c2"/><stop offset="1" stop-color="#5fba7a"/></linearGradient></defs><circle class="rt" cx="55" cy="55" r="50" fill="none" stroke-width="10"/><circle class="arc" cx="55" cy="55" r="50" fill="none" stroke="url(#r-mint)" stroke-width="10" stroke-linecap="round" transform="rotate(-90 55 55)" stroke-dasharray="314.16"/><path class="rc" d="M42 56l9 9 18-20" fill="none" stroke="#5fba7a" stroke-width="5" stroke-linecap="round" stroke-linejoin="round"/></svg><span class="r-num">2 / 3</span><span class="r-cap">right on the first try</span><span class="r-second">1 right on the second try</span></div>
     <div><p class="label">Missed the first time</p>
       <div class="row"><span class="rk" lang="ja">出</span><span class="rm">exit, leave</span><span class="note static">Right on 2nd try</span></div></div>
     <div class="r-learn"><h2>Mark as learned?</h2><p>You got 2 kanji right on the first try that aren’t marked as learned yet.</p>
@@ -231,7 +271,7 @@ body { display:flex; align-items:center; justify-content:center; overflow:hidden
                  ["月","month"],["後","behind"],["前","in front"],["生","life"]];
   const READ = 9, LEARNED = new Set(["日","一","国","人","年","大","十","二","本"]);
   const CHK = '<svg class="chk" viewBox="0 0 28 28"><circle cx="14" cy="14" r="14" fill="FILL"/><path d="M8.5 14.5l3.5 3.5 7.5-8" fill="none" stroke="#fff" stroke-width="2.8" stroke-linecap="round" stroke-linejoin="round"/></svg>';
-  $("deck-grid").innerHTML = KANJI.map(([k, m], i) => `<div class="tile${i < READ ? " read" : ""}"><b lang="ja">${k}</b><small>${m}</small>${LEARNED.has(k) ? CHK.replace("FILL", "#9bd8a8") : ""}</div>`).join("");
+  $("deck-grid").innerHTML = KANJI.map(([k, m], i) => `<div class="tile${i < READ ? " read" : ""}${LEARNED.has(k) ? " learned" : ""}"><b lang="ja">${k}</b><small>${m}</small>${LEARNED.has(k) ? CHK.replace("FILL", "#9bd8a8") : ""}</div>`).join("");
   $("pick-grid").innerHTML = KANJI.map(([k, m]) => `<div class="pick" id="p-${k}"><b lang="ja">${k}</b><small>${m}</small>${CHK.replace("FILL", "#310a3e")}</div>`).join("");
 
   const OK = '<svg class="ok" width="22" height="22" viewBox="0 0 24 24"><circle cx="12" cy="12" r="12" fill="#3f9a5b"/><path d="M7 12.5l3.2 3.2L17 9" fill="none" stroke="#fff" stroke-width="2.2" stroke-linecap="round" stroke-linejoin="round"/></svg>';

diff --git a/japanese-app-promo/index.html b/japanese-app-promo/index.html
@@ -39,15 +39,16 @@
 
   /* Sticker surfaces */
   .tile { width: 100%; height: 100%; background: #fff; border: 1px solid var(--line); box-shadow: var(--sticker-shadow); }
+  .kanji.tile { border: 2.5px solid #9bd8a8; }
   .kanji { position: relative; border-radius: 36px; display: flex; align-items: center; justify-content: center; font-size: 96px; }
   .kanji .badge { position: absolute; top: -12px; right: -12px; width: 42px; height: 42px; border-radius: 50%; line-height: 0;
                   box-shadow: 0 0 0 4px #fff, 0 2px 6px rgba(29,27,58,.15); }
   .phrase { border-radius: 24px; display: flex; align-items: center; justify-content: center; font-size: 42px; padding: 6px 18px 0; }
   .phrase .vb, .phrase .pt { color: var(--ink); padding: 0 4px; border-radius: 8px; } /* grammar: ink on a soft tint */
-  .phrase .vb { background: #ddf3e7; } .phrase .pt { background: #fde8cc; }
+  .phrase .vb { background: #c3ebd2; } .phrase .pt { background: #fcd9a8; }
   .phrase rt { font-size: 15px; color: var(--muted); }
   .pill { width: 100%; height: 100%; border-radius: 999px; display: flex; align-items: center; justify-content: center; gap: 10px;
-          background: var(--ai); color: #fff; font-size: 27px; font-weight: 700;
+          background: linear-gradient(135deg,#b07cf5,#7a26d6); color: #fff; font-size: 27px; font-weight: 700;
           box-shadow: 0 0 0 4px rgba(255,255,255,.9), 0 14px 30px -8px rgba(138,43,226,.6); }
   .correct { border-radius: 999px; display: flex; align-items: center; gap: 12px; padding: 0 26px 0 16px; background: #e8f6ec;
              border: 2px solid var(--learn-on); color: var(--learn-ink); font-size: 30px; font-weight: 700; }
